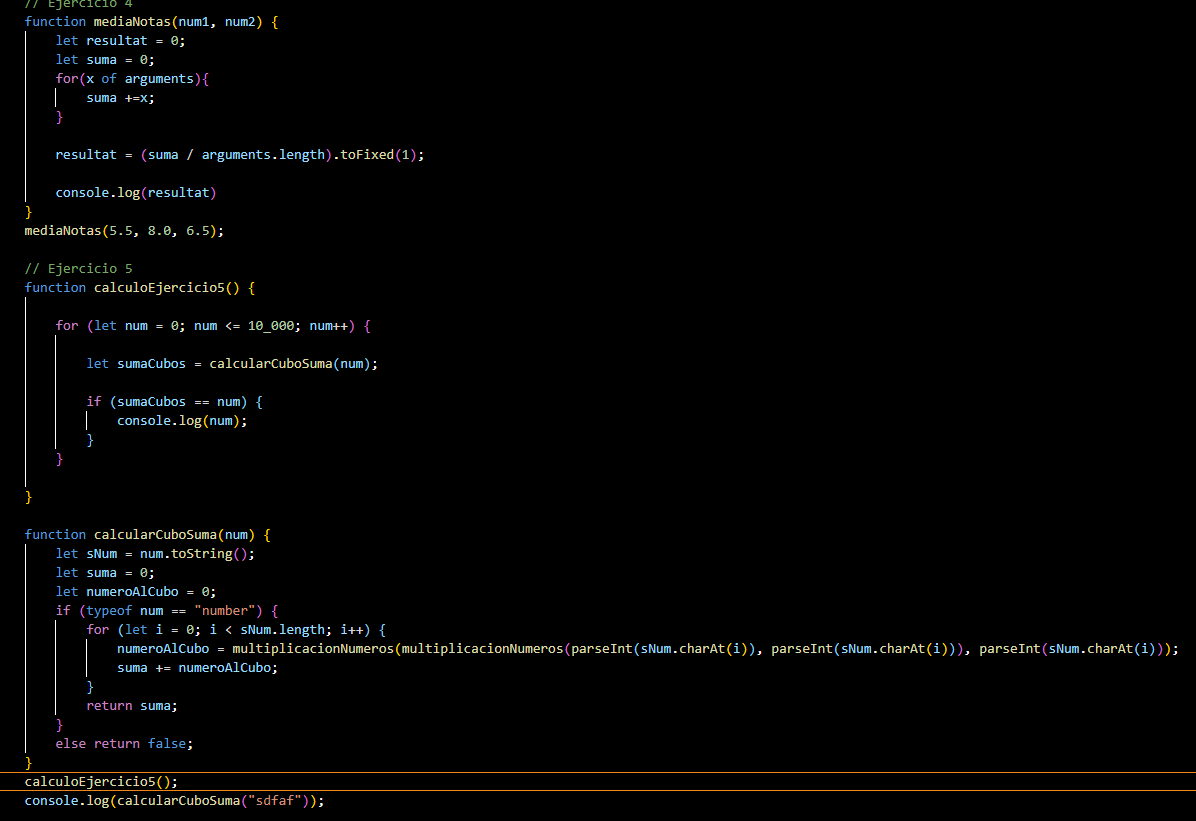
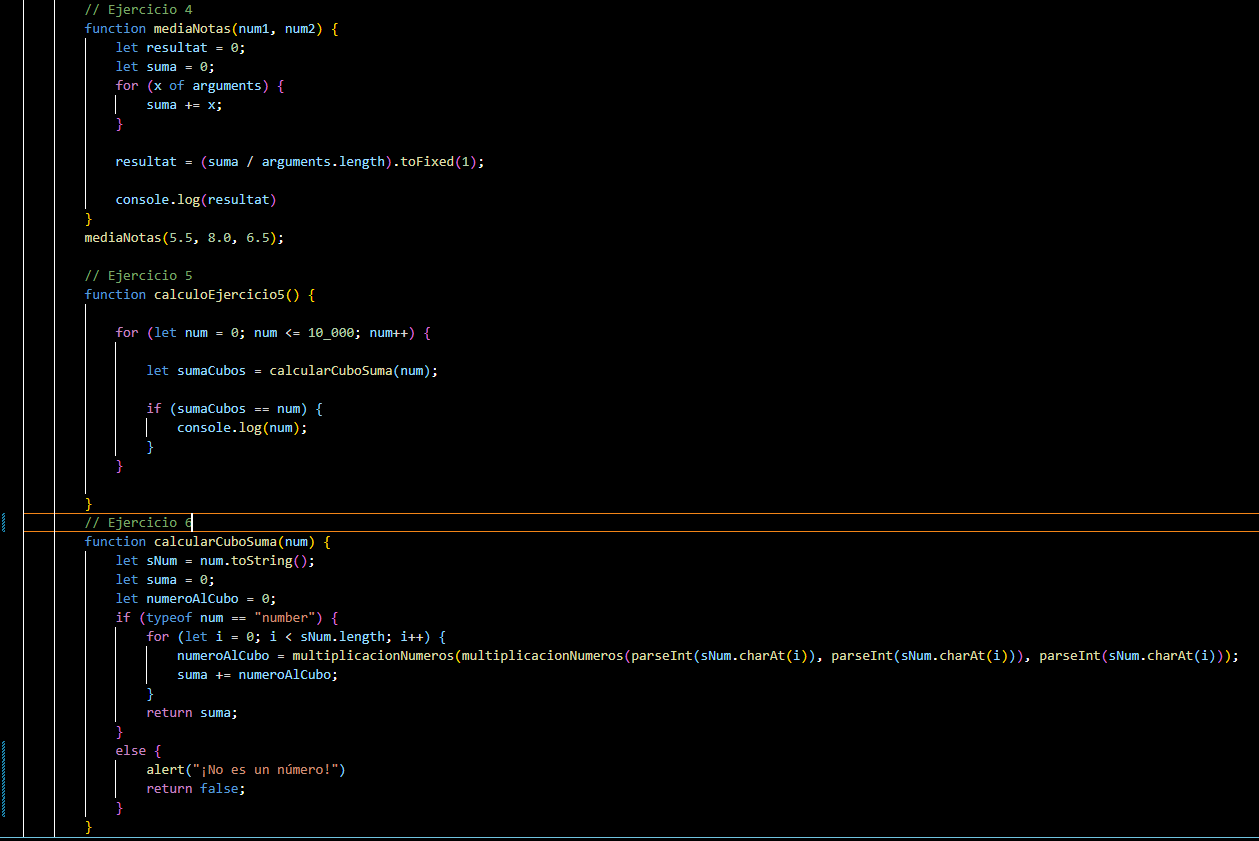
commit 25/1 v1

diff --git a/Javascript Fundamentos y sintaxis moderna/EjerciciosNumbers.html b/Javascript Fundamentos y sintaxis moderna/EjerciciosNumbers.html
@@ -83,7 +83,7 @@
             }
 
         }
-
+        // Ejercicio 6
         function calcularCuboSuma(num) {
             let sNum = num.toString();
             let suma = 0;
@@ -95,7 +95,10 @@
                 }
                 return suma;
             }
-            else return false;
+            else {
+                alert("¡No es un número!")
+                return false;
+            }
         }
         calculoEjercicio5();
         console.log(calcularCuboSuma("sdfaf"));
